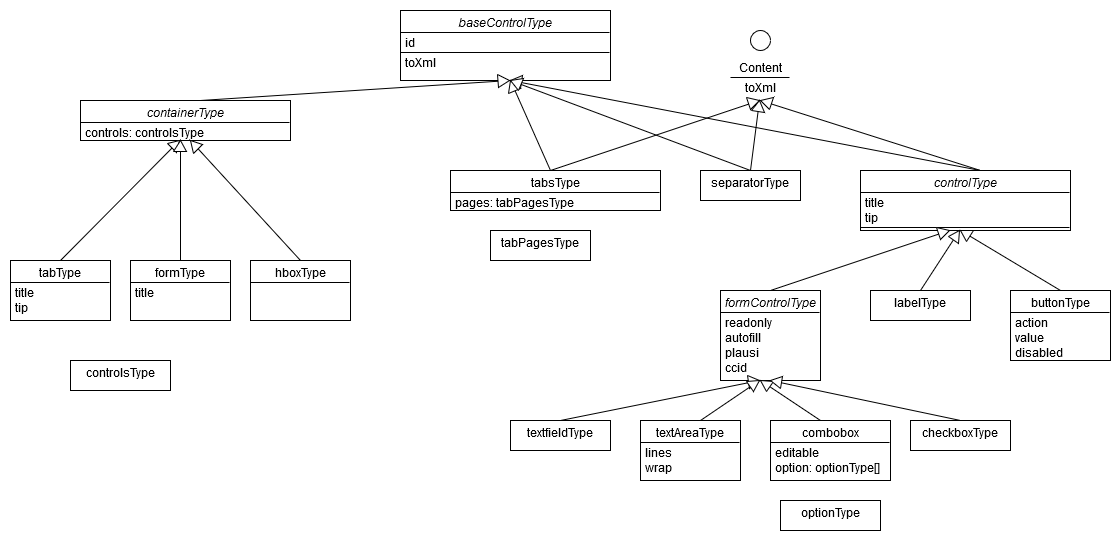
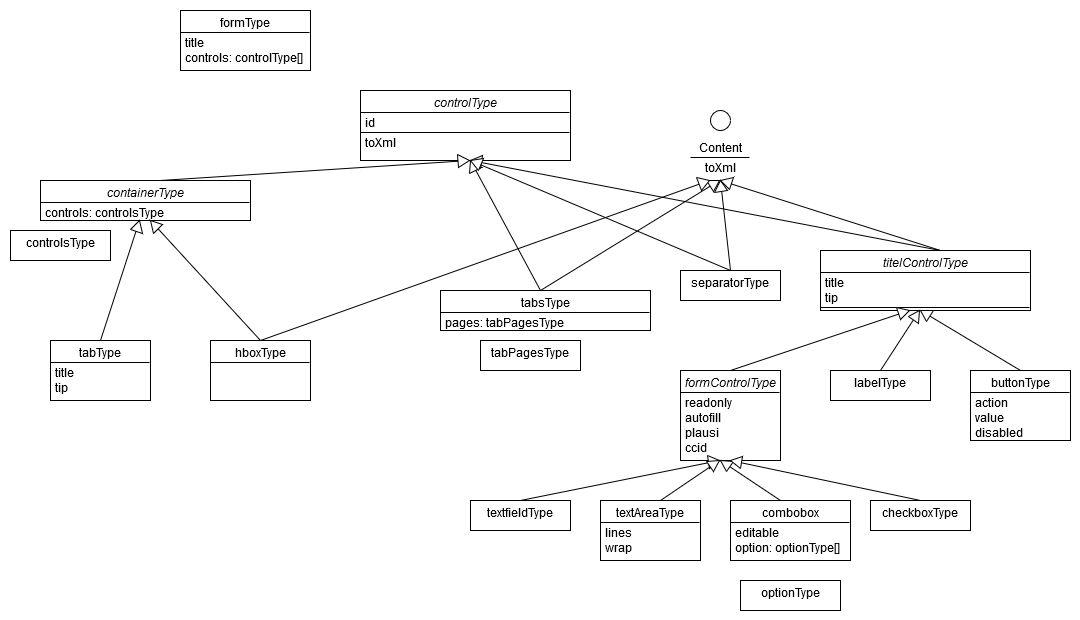
Änderungen aus Review
Form ist kein Control mehr
options eingeführt
BasisControl umbenannt

diff --git a/src/app/data/forms/form.ts b/src/app/data/forms/form.ts
@@ -1,23 +1,30 @@
 import { Control } from './control';
 import { XmlClass } from '../../decorators/xml.decorators';
-import { Container } from './container';
 
 @XmlClass('form')
-export class Form extends Container {
+export class Form {
+  id: string;
   title: string;
+  controls: Control[] = [];
 
   constructor(c?: Form) {
-    super(c);
     if (c) {
+      this.id = c.id;
       this.title = c.title;
+      this.controls = c.controls;
     }
   }
 
   toXml(): string {
-    // tslint:disable-next-line:max-line-length
-    let xml = '<form xmlns="http://www.muenchen.de/formbox/forms" xmlns:xsi="http://www.w3.org/2001/XMLSchema-instance" xsi:schemaLocation="http://www.muenchen.de/formbox/forms http://www.muenchen.de/formbox/form.xsd">';
-    xml += super.toXml();
+    let xml = '<form xmlns="http://www.muenchen.de/formbox/forms" xmlns:xsi="http://www.w3.org/2001/XMLSchema-instance"';
+    xml += ' xsi:schemaLocation="http://www.muenchen.de/formbox/forms http://www.muenchen.de/formbox/form.xsd">';
+    xml += `<id>${this.id}</id>`;
     xml += `<title>${this.title}</title>`;
+    xml += '<controls>';
+    for (const c of this.controls) {
+      xml += c.toXml();
+    }
+    xml += '</controls>';
     xml += '</form>';
 
     return xml;

diff --git a/test/app/data/formdata-xml.spec.ts b/test/app/data/formdata-xml.spec.ts
@@ -20,7 +20,7 @@ describe('Formdata XML', () => {
     expect(f.toXml()).toEqual('<form xmlns="http://www.muenchen.de/formbox/forms" ' +
       'xmlns:xsi="http://www.w3.org/2001/XMLSchema-instance" '
       + 'xsi:schemaLocation="http://www.muenchen.de/formbox/forms http://www.muenchen.de/formbox/form.xsd">' +
-      '<id>myForm</id><controls></controls><title>Form 1</title></form>');
+      '<id>myForm</id><title>Form 1</title><controls></controls></form>');
     expect(new Form(f)).toEqual(f);
   });
 
@@ -120,10 +120,11 @@ describe('Formdata XML', () => {
     const option2 = new Option();
     option2.id = 'option2';
     option2.value = 'Item2';
-    cb.option = [option1, option2];
+    cb.options = [option1, option2];
 
     expect(cb.toXml()).toEqual('<combobox><id>cb1</id><title>Combobox 1</title><ccid>1</ccid><editable>true</editable>' +
-    '<option><id>option1</id><value>Item1</value></option><option><id>option2</id><value>Item2</value></option></combobox>');
+    '<options><option><id>option1</id><value>Item1</value></option>' +
+    '<option><id>option2</id><value>Item2</value></option></options></combobox>');
     expect(new Option(option1)).toEqual(option1);
     expect(new Combobox(cb)).toEqual(cb);
   });

diff --git a/test/app/services/form-xml-parser.service.spec.ts b/test/app/services/form-xml-parser.service.spec.ts
@@ -24,7 +24,7 @@ describe('FormXmlParserService', () => {
     const xml = '<form xmlns="http://www.muenchen.de/formbox/forms" ' +
       'xmlns:xsi="http://www.w3.org/2001/XMLSchema-instance" ' +
       'xsi:schemaLocation="http://www.muenchen.de/formbox/forms http://www.muenchen.de/formbox/form.xsd">' +
-      '<id>myForm</id><controls></controls><title>Form 1</title></form>';
+      '<id>myForm</id><title>Form 1</title><controls></controls></form>';
 
     const f = service.parse(xml);
 
@@ -44,6 +44,6 @@ describe('FormXmlParserService', () => {
     expect(xml).toEqual('<form xmlns="http://www.muenchen.de/formbox/forms" ' +
       'xmlns:xsi="http://www.w3.org/2001/XMLSchema-instance" ' +
       'xsi:schemaLocation="http://www.muenchen.de/formbox/forms http://www.muenchen.de/formbox/form.xsd">' +
-      '<id>myForm</id><controls></controls><title>Form 1</title></form>');
+      '<id>myForm</id><title>Form 1</title><controls></controls></form>');
   }));
 });

diff --git a/src/app/data/forms/combobox.ts b/src/app/data/forms/combobox.ts
@@ -4,14 +4,14 @@ import { FormControl } from './form-control';
 
 @XmlClass('combobox')
 export class Combobox extends FormControl {
-  option: Option[] = [];
+  options: Option[] = [];
   editable = false;
 
   constructor(c?: Combobox) {
     super(c);
     if (c) {
       this.editable = c.editable;
-      this.option = c.option.map(o => new Option(o));
+      this.options = c.options.map(o => new Option(o));
     }
   }
 
@@ -19,9 +19,11 @@ export class Combobox extends FormControl {
     let xml = '<combobox>';
     xml += super.toXml();
     xml += `<editable>${this.editable}</editable>`;
-    for (const o of this.option) {
+    xml += '<options>';
+    for (const o of this.options) {
       xml += o.toXml();
     }
+    xml += '</options>';
     xml += '</combobox>';
 
     return xml;

diff --git a/src/app/data/forms/control.ts b/src/app/data/forms/control.ts
@@ -1,26 +1,13 @@
-import { BaseControl } from './base-control';
-
-export abstract class Control extends BaseControl {
-  title: string = undefined;
-  tip?: string;
+export abstract class Control {
+  id: string;
 
   constructor(c?: Control) {
-    super(c);
     if (c) {
-      this.title = c.title;
-      if (c.tip) {
-        this.tip = c.tip;
-      }
+      this.id = c.id;
     }
   }
 
   toXml(): string {
-    let xml = super.toXml();
-    xml += `<title>${this.title}</title>`;
-    if (this.tip) {
-      xml += `<tip>${this.tip}</tip>`;
-    }
-
-    return xml;
+    return `<id>${this.id}</id>`;
   }
 }

diff --git a/src/app/data/forms/titel-control.ts b/src/app/data/forms/titel-control.ts
@@ -1,0 +1,26 @@
+import { Control } from './control';
+
+export abstract class TitelControl extends Control {
+  title: string = undefined;
+  tip?: string;
+
+  constructor(c?: TitelControl) {
+    super(c);
+    if (c) {
+      this.title = c.title;
+      if (c.tip) {
+        this.tip = c.tip;
+      }
+    }
+  }
+
+  toXml(): string {
+    let xml = super.toXml();
+    xml += `<title>${this.title}</title>`;
+    if (this.tip) {
+      xml += `<tip>${this.tip}</tip>`;
+    }
+
+    return xml;
+  }
+}

diff --git a/src/app/data/forms/tabs.ts b/src/app/data/forms/tabs.ts
@@ -1,10 +1,10 @@
-import { BaseControl } from './base-control';
+import { Control } from './control';
 import { Tab } from './tab';
 import { XmlClass } from '../../decorators/xml.decorators';
 import { Content } from './content';
 
 @XmlClass('tabs')
-export class Tabs extends BaseControl implements Content {
+export class Tabs extends Control implements Content {
   controls: Tab[] = [];
 
   constructor(c?: Tabs) {

diff --git a/src/app/data/forms/separator.ts b/src/app/data/forms/separator.ts
@@ -1,9 +1,9 @@
-import { BaseControl } from './base-control';
+import { Control } from './control';
 import { XmlClass } from '../../decorators/xml.decorators';
 import { Content } from './content';
 
 @XmlClass('separator')
-export class Separator extends BaseControl implements Content {
+export class Separator extends Control implements Content {
 
   constructor(c?: Separator) {
     super(c);

diff --git a/src/app/services/form-xml-parser.service.ts b/src/app/services/form-xml-parser.service.ts
@@ -63,7 +63,7 @@ export class FormXmlParserService {
       if (this.currentContainer && this.currentContainer.hasOwnProperty('controls')) {
         this.currentContainer.controls.push(o);
       } else if (this.currentContainer instanceof Combobox) {
-        this.currentContainer.option.push(o);
+        this.currentContainer.options.push(o);
       }
 
       if (!this.root) {

diff --git a/src/app/data/forms/button.ts b/src/app/data/forms/button.ts
@@ -1,8 +1,8 @@
-import { Control } from './control';
+import { TitelControl } from './titel-control';
 import { XmlClass } from '../../decorators/xml.decorators';
 
 @XmlClass('button')
-export class Button extends Control {
+export class Button extends TitelControl {
   action = '';
   value = '';
   disabled?: boolean;

diff --git a/src/app/data/forms/hbox.ts b/src/app/data/forms/hbox.ts
@@ -1,8 +1,9 @@
 import { Container } from './container';
 import { XmlClass } from '../../decorators/xml.decorators';
+import { Content } from './content';
 
 @XmlClass('hbox')
-export class Hbox extends Container {
+export class Hbox extends Container implements Content {
 
   constructor(c?: Hbox) {
     super(c);

diff --git a/src/app/data/forms/form-control.ts b/src/app/data/forms/form-control.ts
@@ -1,6 +1,6 @@
-import { Control } from './control';
+import { TitelControl } from './titel-control';
 
-export abstract class FormControl extends Control {
+export abstract class FormControl extends TitelControl {
   ccid: number = undefined;
   readonly?: boolean = undefined;
   autofill?: string = undefined;
